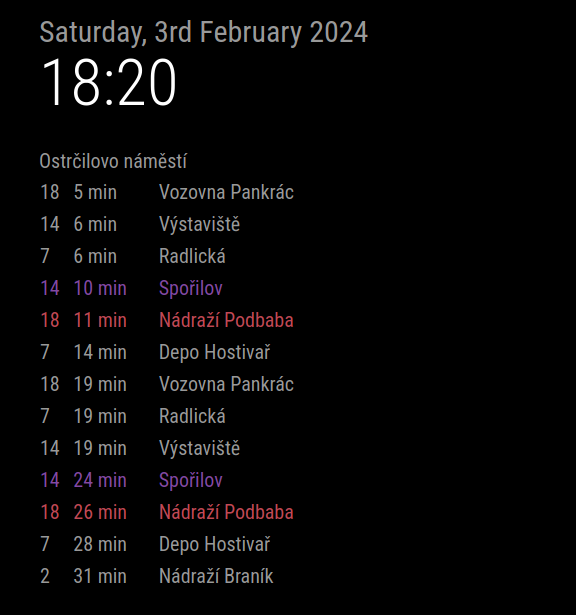
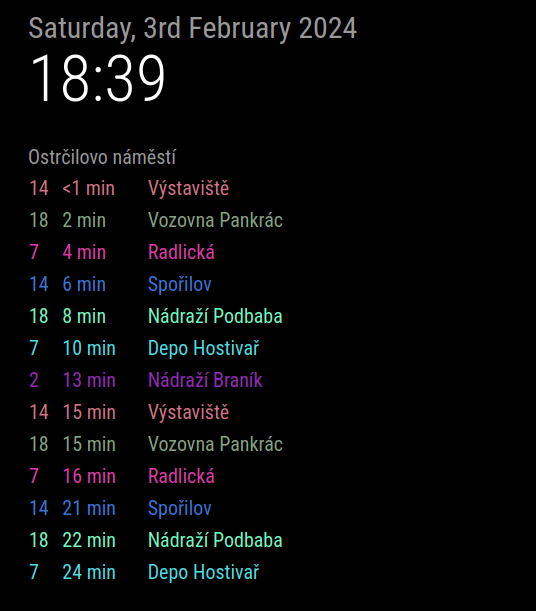
color update

Changed region(s): [[0.0299, 0.2488, 0.5373, 0.964], [0.0299, 0.0311, 0.6866, 0.1866], [0.0597, 0.8707, 0.0896, 0.964]]

diff --git a/MMM-PID.js b/MMM-PID.js
@@ -15,31 +15,17 @@ Module.register("MMM-PID", {
             }
         ],
         updateInterval: 5000,
+        coloredSameRoute: true, // Default to true for colored same routes
     },
 
-    // Define a function to generate unique colors based on the combination of route.short_name and trip.headsign
-    getColorForCombination: function(shortName, headsign) {
-        // Generate a unique hash for the combination of shortName and headsign
-        const hash = shortName + headsign;
-        // Use the hash to generate a color (you can use any method you prefer)
-        const color = '#' + this.hashCode(hash).slice(0, 6);
-        return color;
-    },
-
-    // Define a hash function (you can use any hash function you prefer)
-    hashCode: function(str) {
-        var hash = 0;
-        for (var i = 0; i < str.length; i++) {
-            var character = str.charCodeAt(i);
-            hash = (hash << 5) - hash + character;
-        }
-        return hash.toString(16);
-    },
+    // Define an object to store colors for each combination of route.short_name and trip.headsign
+    colorMap: {},
 
     start: function() {
         Log.info("Starting module: " + this.name);
         this.departures = {};
         this.loaded = {};
+        this.retrieveColors(); // Retrieve colors from local storage
         for (let i = 0; i < this.config.feeds.length; i++) {
             this.loaded[i] = false; // Flags to track if data is loaded for each feed
         }
@@ -50,15 +36,66 @@ Module.register("MMM-PID", {
         if (notification === "DEPARTURES_DATA") {
             this.departures[payload.feedId] = payload.departures;
             this.loaded[payload.feedId] = true; // Set the flag to true when data arrives
+
+            // Generate and store colors for each combination of route.short_name and trip.headsign
+            this.generateColors();
+
             this.updateDom();
+        }
+    },
+
+    generateColors: function() {
+        for (let i = 0; i < this.config.feeds.length; i++) {
+            const departures = this.departures[i];
+            if (departures) {
+                for (let j = 0; j < departures.length; j++) {
+                    const departure = departures[j];
+                    const combination = departure.name + departure.endingStation;
+                    if (!(combination in this.colorMap)) {
+                        // Generate a unique color based on configuration
+                        if (this.config.coloredSameRoute) {
+                            // Generate a pastel color
+                            if (this.colorMap[combination] === undefined) {
+                                this.colorMap[combination] = this.getRandomPastelColor();
+                            }
+                        } else {
+                            // Generate a regular color
+                            if (this.colorMap[combination] === undefined) {
+                                this.colorMap[combination] = this.getRandomColor();
+                            }
+                        }
+                    }
+                }
+            }
+        }
+        this.saveColors(); // Save colors to local storage
+    },
+    
+
+    // Generate a random pastel color
+    getRandomPastelColor: function() {
+        const hue = Math.floor(Math.random() * 360); // Random hue value between 0 and 359
+        const saturation = Math.floor(Math.random() * 50) + 50; // Random saturation between 50% and 100%
+        const lightness = Math.floor(Math.random() * 30) + 70; // Random lightness between 70% and 100%
+        return `hsl(${hue}, ${saturation}%, ${lightness}%)`;
+    },
+
+
+    // Save colors to local storage
+    saveColors: function() {
+        localStorage.setItem("MMM-PID-colorMap", JSON.stringify(this.colorMap));
+    },
+
+    // Retrieve colors from local storage
+    retrieveColors: function() {
+        const storedColors = localStorage.getItem("MMM-PID-colorMap");
+        if (storedColors) {
+            this.colorMap = JSON.parse(storedColors);
         }
     },
 
     getDom: function() {
         var wrapper = document.createElement("div");
-
-        // Create an object to store colors for each combination of route.short_name and trip.headsign
-        var colorMap = {};
 
         // Render the departures data for each feed if loaded, otherwise show loading message
         for (let i = 0; i < this.config.feeds.length; i++) {
@@ -78,37 +115,40 @@ Module.register("MMM-PID", {
                 var table = document.createElement("table");
                 table.className = "departure-table";
 
-                this.departures[i].forEach(function(departure) {
-                    var row = document.createElement("tr");
-                    row.className = "departure-row";
+                const departures = this.departures[i];
+                if (departures) {
+                    departures.forEach(function(departure) {
+                        var row = document.createElement("tr");
+                        row.className = "departure-row";
 
-                    var nameCell = document.createElement("td");
-                    nameCell.className = "departure-data";
-                    nameCell.innerHTML = departure.name;
+                        var nameCell = document.createElement("td");
+                        nameCell.className = "departure-data";
+                        nameCell.innerHTML = departure.name;
 
-                    // Generate a unique color for the combination of route.short_name and trip.headsign
-                    var combinationColor = this.getColorForCombination(departure.name, departure.endingStation);
-                    // Apply the color to the row
-                    row.style.color = combinationColor;
+                        // Get the color for the combination of route.short_name and trip.headsign
+                        const combinationColor = this.colorMap[departure.name + departure.endingStation];
+                        // Apply the color to the row
+                        row.style.color = combinationColor;
 
-                    row.appendChild(nameCell);
+                        row.appendChild(nameCell);
 
-                    var timeCell = document.createElement("td");
-                    timeCell.className = "departure-data time-remaining";
-                    if (departure.timeRemaining < 1) {
-                        timeCell.innerHTML = "<1 min"; // Display "<1" when timeRemaining is less than 1
-                    } else {
-                        timeCell.innerHTML = departure.timeRemaining + " min";
-                    }
-                    row.appendChild(timeCell);
+                        var timeCell = document.createElement("td");
+                        timeCell.className = "departure-data time-remaining";
+                        if (departure.timeRemaining < 1) {
+                            timeCell.innerHTML = "<1 min"; // Display "<1" when timeRemaining is less than 1
+                        } else {
+                            timeCell.innerHTML = departure.timeRemaining + " min";
+                        }
+                        row.appendChild(timeCell);
 
-                    var destinationCell = document.createElement("td");
-                    destinationCell.className = "departure-data";
-                    destinationCell.innerHTML = departure.endingStation;
-                    row.appendChild(destinationCell);
+                        var destinationCell = document.createElement("td");
+                        destinationCell.className = "departure-data";
+                        destinationCell.innerHTML = departure.endingStation;
+                        row.appendChild(destinationCell);
 
-                    table.appendChild(row);
-                }, this);
+                        table.appendChild(row);
+                    }, this);
+                }
 
                 feedWrapper.appendChild(table);
                 wrapper.appendChild(feedWrapper);

diff --git a/sample_config.js b/sample_config.js
@@ -16,5 +16,8 @@
                 ids: "U522Z2P",
             }
         ],
+        coloredSameRoute: true, // Set to true for colored same routes or false for regular colors
+        updateInterval: 5000
+
     }
 }, 

diff --git a/README.md b/README.md
@@ -47,3 +47,11 @@ Sample config
     }
 }, 
 ```
+
+Configurable paramethers
+aswIds
+ids
+Title
+limit: 10
+updateInterval: 5000
+coloredSameRoute: true, // Default to true for colored same routes
